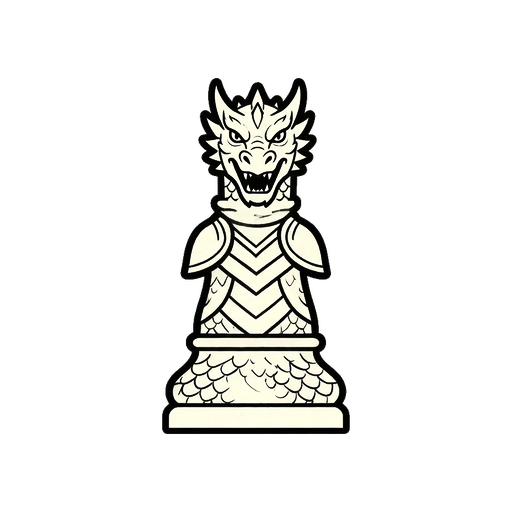
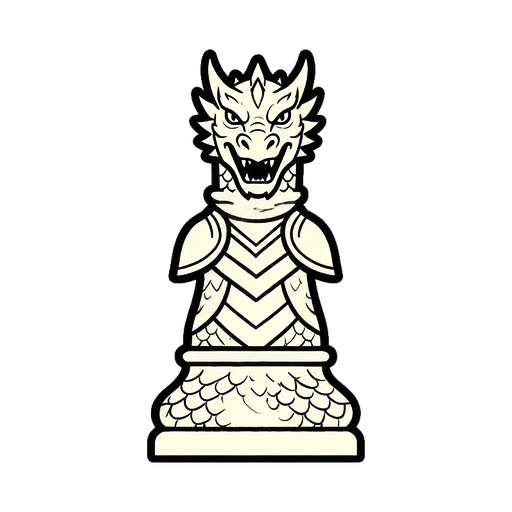
v0.6.13 - dragon pawn sized to middle ground (~81%); SW cache v6

Changed region(s): [[0.2812, 0.0938, 0.7188, 0.9062]]

diff --git a/public/service-worker.js b/public/service-worker.js
@@ -12,7 +12,7 @@
  * Bump CACHE when you change a STABLE-named asset (e.g. a regenerated piece
  * PNG) and want every client to drop the old copy. Hashed bundles don't need it.
  */
-const CACHE = 'chess-cadet-v5';
+const CACHE = 'chess-cadet-v6';
 
 const PRECACHE = [
   './',

diff --git a/src/version.js b/src/version.js
@@ -1,3 +1,3 @@
 // Single source of truth for the displayed app version.
 // Keep in sync with package.json on each release.
-export const VERSION = '0.6.12';
+export const VERSION = '0.6.13';

diff --git a/Chess sets from grok/process_dragon_pawn.py b/Chess sets from grok/process_dragon_pawn.py
@@ -32,7 +32,7 @@ ys, xs = np.where(alpha > 0)
 crop = out.crop((xs.min(), ys.min(), xs.max() + 1, ys.max() + 1))
 
 side = max(crop.size)
-pad = int(side * 0.22)  # generous margin so the pawn reads SMALLER than the majors
+pad = int(side * 0.12)  # middle ground: a bit smaller than the majors, still substantial
 canvas = Image.new("RGBA", (side + 2 * pad, side + 2 * pad), (0, 0, 0, 0))
 canvas.paste(crop, ((canvas.size[0] - crop.size[0]) // 2, (canvas.size[1] - crop.size[1]) // 2), crop)
 canvas = canvas.resize((512, 512), Image.LANCZOS)
